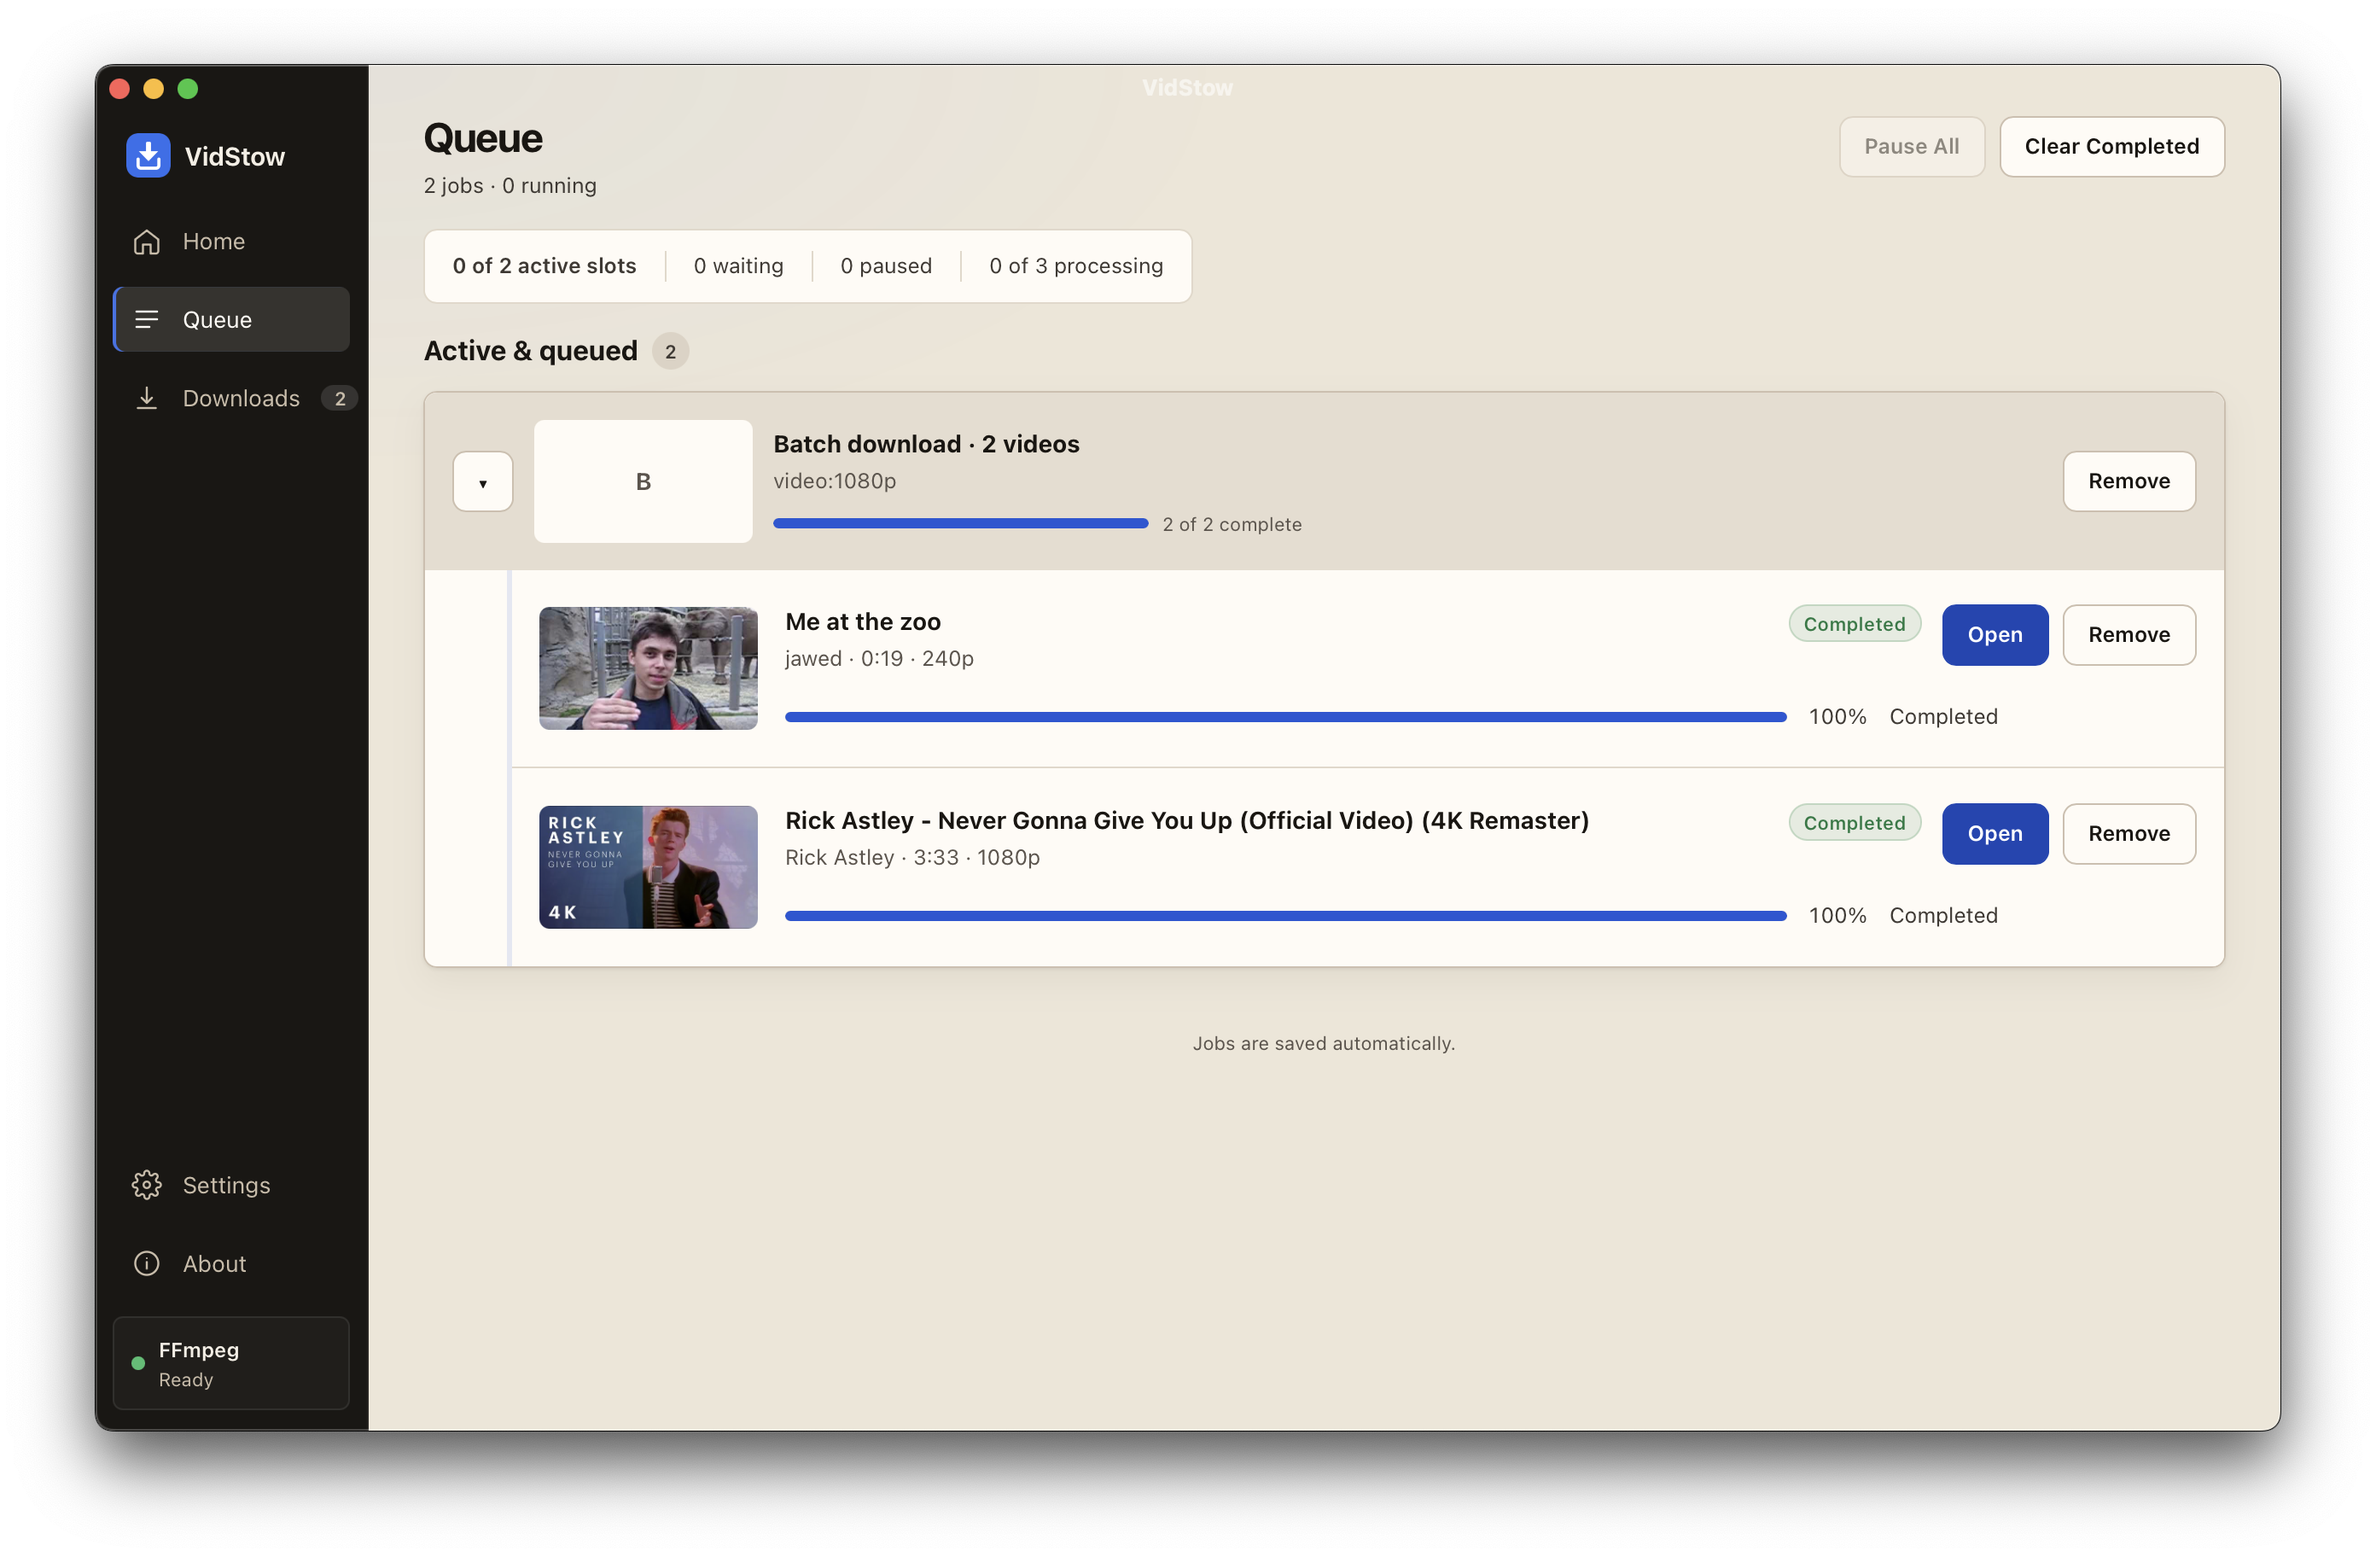
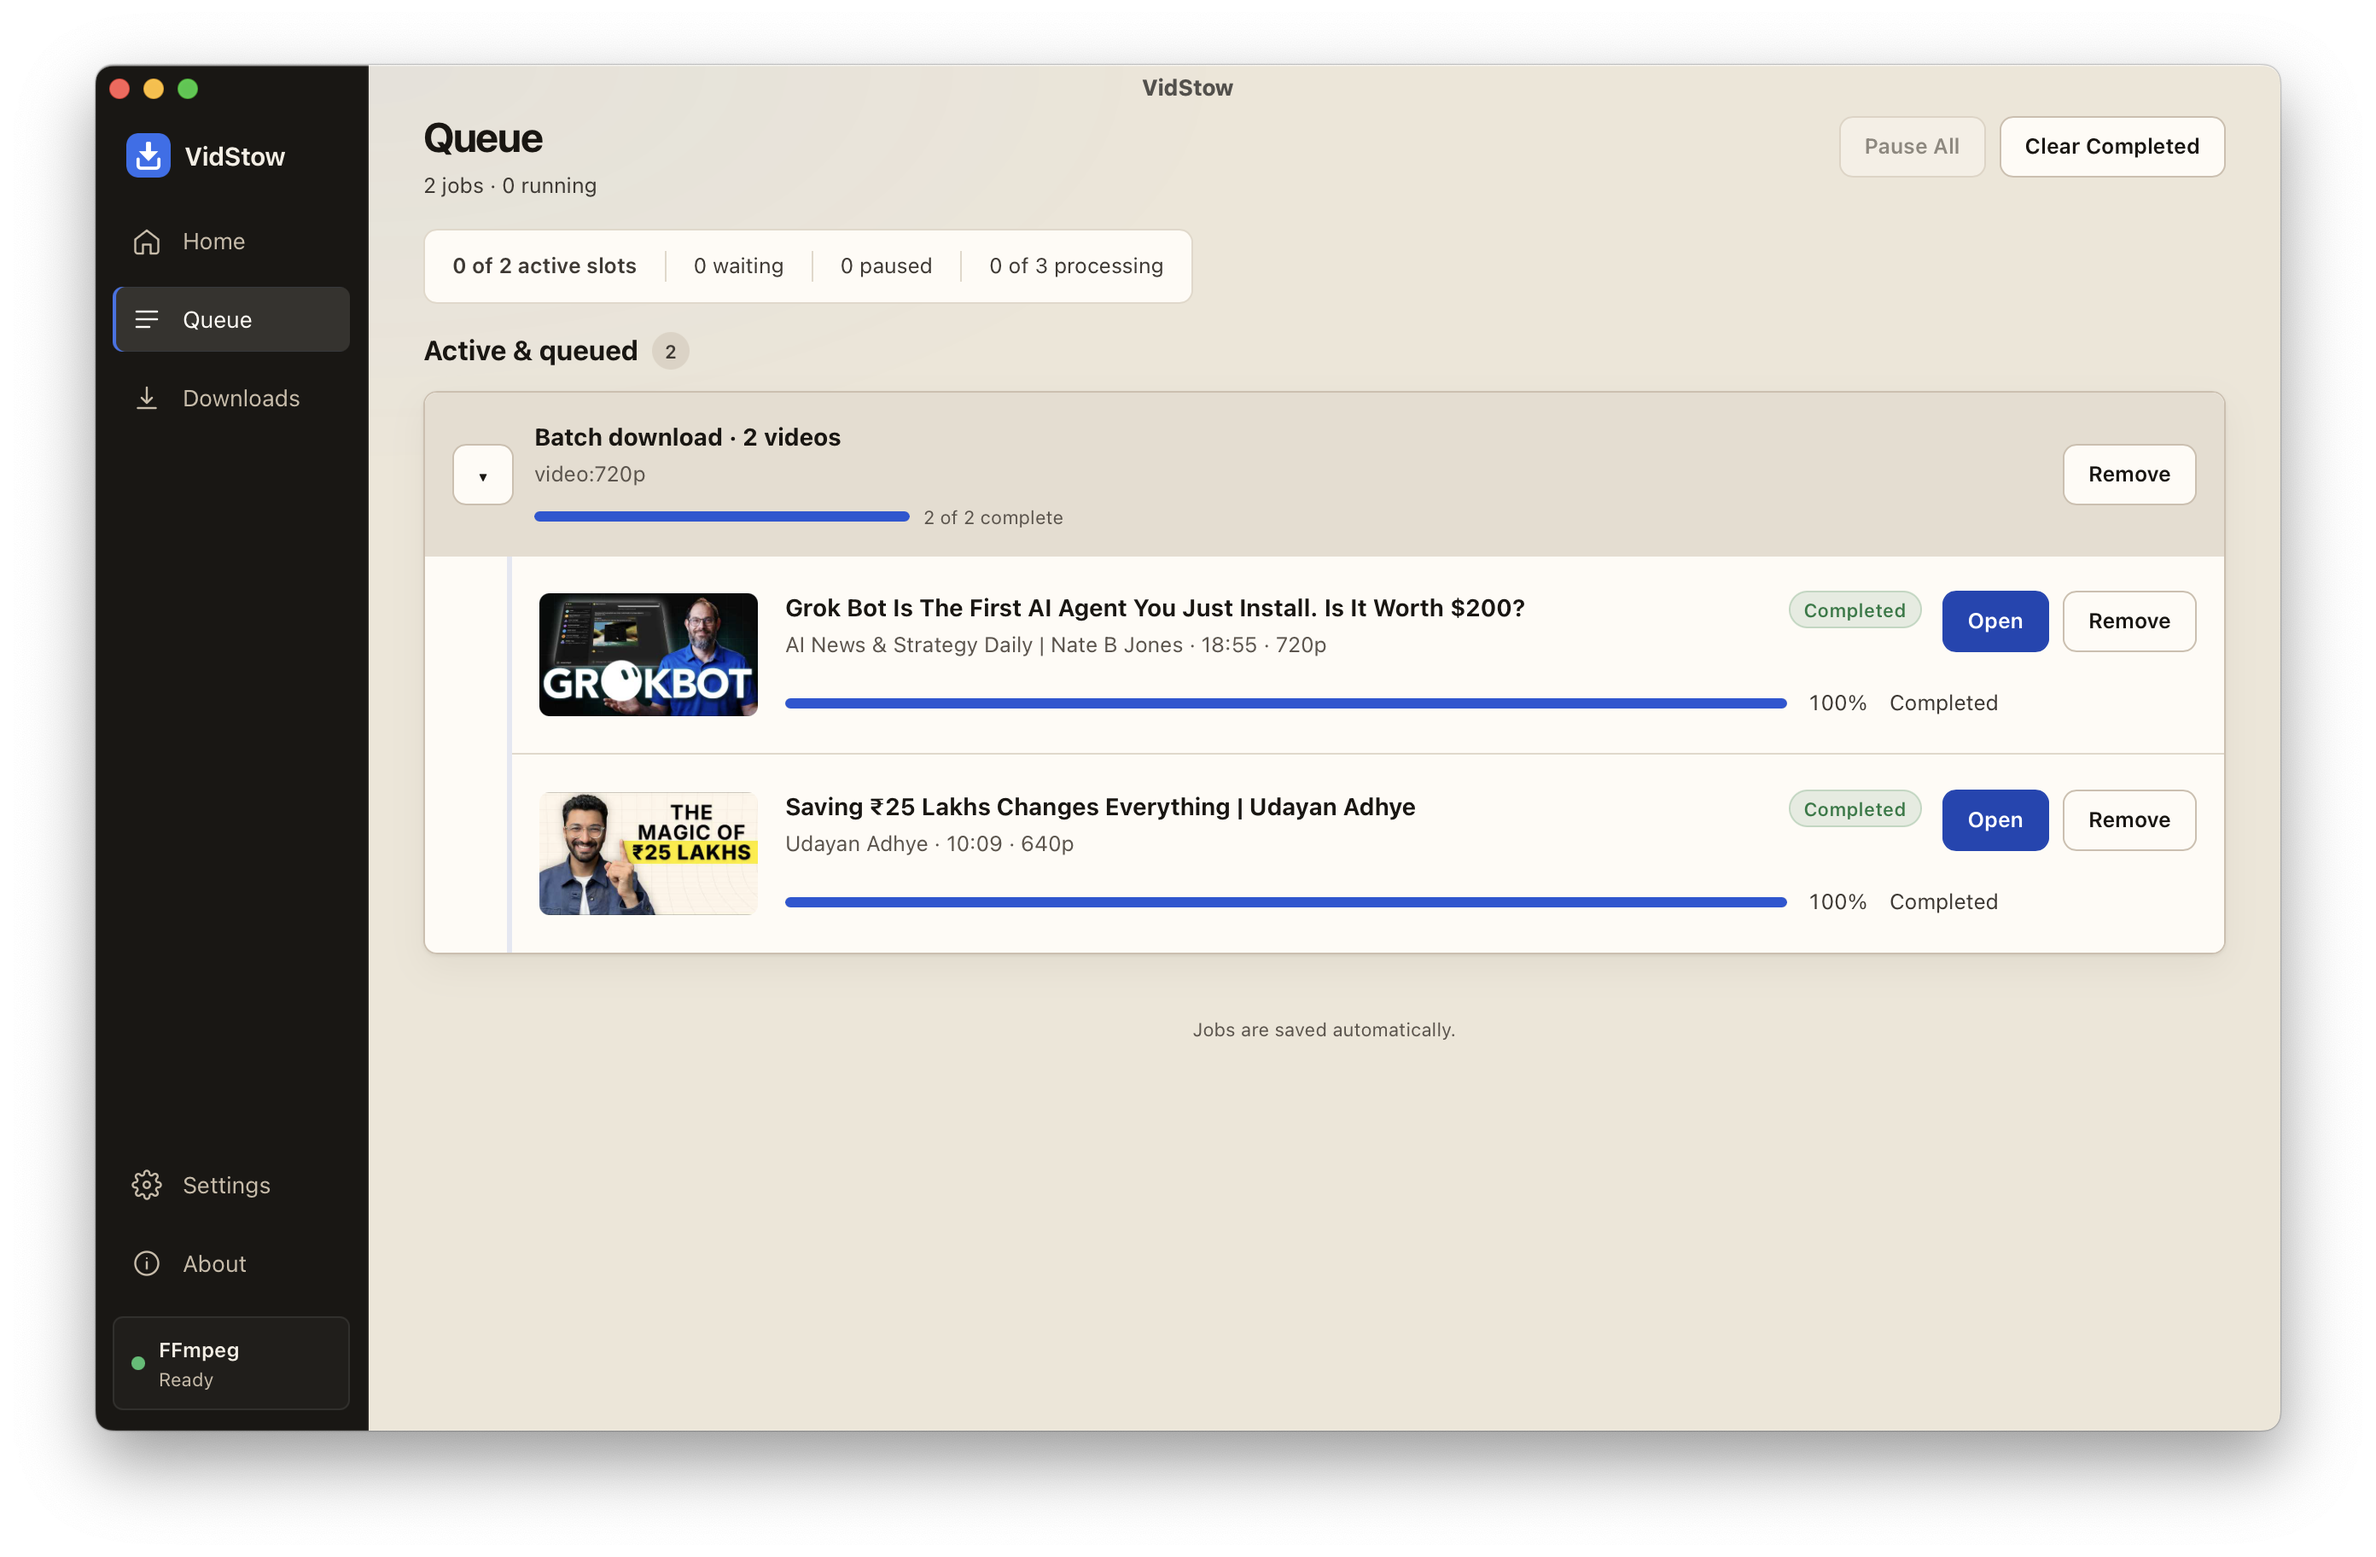
polish batch collection presentation

diff --git a/frontend/src/lib/lifecycle-ui/CollectionRow.svelte b/frontend/src/lib/lifecycle-ui/CollectionRow.svelte
@@ -32,7 +32,7 @@
 </script>
 
 <section class="collection" aria-labelledby={`${panelId}-title`}>
-  <div class="parent-row">
+  <div class="parent-row" class:without-thumbnail={collection.kind === 'batch'}>
     <button
       type="button"
       class="toggle"
@@ -44,10 +44,12 @@
       <span aria-hidden="true">{expanded ? '▾' : '▸'}</span>
     </button>
 
-    {#if collection.thumbnailUrl}
-      <img class="thumbnail" src={collection.thumbnailUrl} alt="" referrerpolicy="no-referrer" />
-    {:else}
-      <div class="thumbnail placeholder" aria-hidden="true">{collection.title.slice(0, 1).toUpperCase()}</div>
+    {#if collection.kind === 'playlist'}
+      {#if collection.thumbnailUrl}
+        <img class="thumbnail" src={collection.thumbnailUrl} alt="" referrerpolicy="no-referrer" />
+      {:else}
+        <div class="thumbnail placeholder" aria-hidden="true">{collection.title.slice(0, 1).toUpperCase()}</div>
+      {/if}
     {/if}
 
     <div class="identity">
@@ -100,6 +102,7 @@
   .collection { border-bottom: 1px solid var(--border-default); background: var(--surface-base); }
   .collection:last-child { border-bottom: 0; }
   .parent-row { display: grid; grid-template-columns: 36px 128px minmax(0, 1fr) auto; align-items: center; gap: var(--sp-3); padding: var(--sp-4); background: var(--surface-sunken); }
+  .parent-row.without-thumbnail { grid-template-columns: 36px minmax(0, 1fr) auto; }
   .toggle { display: grid; width: 36px; height: 36px; place-items: center; border: 1px solid var(--border-default); border-radius: var(--r-md); background: var(--surface-base); color: var(--text-primary); font-size: var(--fs-lg); }
   .toggle:hover { background: var(--surface-hover); }
   .thumbnail { width: 128px; aspect-ratio: 16 / 9; object-fit: cover; border-radius: var(--r-sm); background: var(--surface-base); }
@@ -117,6 +120,7 @@
 
   @media (max-width: 760px) {
     .parent-row { grid-template-columns: 36px 72px minmax(0, 1fr); }
+    .parent-row.without-thumbnail { grid-template-columns: 36px minmax(0, 1fr); }
     .thumbnail { width: 72px; height: 44px; }
     .actions { grid-column: 2 / -1; max-width: none; justify-content: flex-start; }
     .children { margin-left: 20px; }

diff --git a/frontend/tests/lifecycle-ui.dom.test.ts b/frontend/tests/lifecycle-ui.dom.test.ts
@@ -102,6 +102,26 @@ describe('backend-authored capabilities', () => {
     expect(screen.getByRole('button', { name: 'Expand Fixture playlist' })).toHaveAttribute('aria-expanded', 'false');
   });
 
+  test('batch collection parents omit synthetic thumbnails', () => {
+    const { container } = render(QueueOverview, {
+      props: {
+        model: queueModel({
+          jobs: [],
+          collections: [{
+            id: 'batch-1', kind: 'batch', title: 'Batch download · 2 videos', thumbnailUrl: 'https://example.invalid/batch.jpg',
+            policy: 'video:720p', childJobIds: [], total: 2, completed: 0, failed: 0, canceled: 0,
+            active: 2, pending: 0, paused: 0, progress: 0.5, progressLabel: '0 of 2 complete',
+            capabilities: {}, commandToken: 'batch-token',
+          }],
+        }),
+      },
+    });
+
+    expect(screen.getByText('Batch download · 2 videos')).toBeInTheDocument();
+    expect(screen.getByText('video:720p')).toBeInTheDocument();
+    expect(container.querySelector('.parent-row > .thumbnail')).not.toBeInTheDocument();
+  });
+
   test('playlist collection actions fail closed without a valid token', async () => {
     const onCollectionAction = vi.fn();
     const user = userEvent.setup();

diff --git a/frontend/src/pages/Home.svelte b/frontend/src/pages/Home.svelte
@@ -133,7 +133,7 @@
     }
   }
 
-  function editBatchLines() {
+  function editBatchURLs() {
     batchGeneration += 1;
     batchBusy = false;
     batchReview = null;
@@ -416,7 +416,7 @@
             <p aria-live="polite">{batchReviewSummary(batchReview)}</p>
             {#if !batchTokenValid}<p class="batch-expired" role="alert">This review expired. Edit the lines and review them again.</p>{/if}
           </div>
-          <button type="button" class="app-btn" on:click={editBatchLines} disabled={batchBusy}>Edit lines</button>
+          <button type="button" class="app-btn" on:click={editBatchURLs} disabled={batchBusy}>Edit URLs</button>
         </header>
 
         <div class="batch-lines" role="list" aria-label="Reviewed batch URLs">

diff --git a/frontend/tests/home.dom.test.ts b/frontend/tests/home.dom.test.ts
@@ -222,7 +222,7 @@ describe('Home analysis authority', () => {
     await user.click(screen.getByRole('button', { name: 'Review URLs' }));
     expect(await screen.findByRole('button', { name: 'Start 2 downloads' })).toBeEnabled();
     expect(screen.getByText('2 videos ready to download')).toBeInTheDocument();
-    await user.click(screen.getByRole('button', { name: 'Edit lines' }));
+    await user.click(screen.getByRole('button', { name: 'Edit URLs' }));
     expect(screen.queryByRole('button', { name: 'Start 2 downloads' })).not.toBeInTheDocument();
     expect(screen.getByLabelText('YouTube video or Short URLs')).toHaveValue('one\ntwo');
   });

diff --git a/main.go b/main.go
@@ -40,7 +40,7 @@ func main() {
 				UseToolbar:                 false,
 				HideToolbarSeparator:       true,
 			},
-			Appearance:           mac.NSAppearanceNameDarkAqua,
+			Appearance:           mac.NSAppearanceNameAqua,
 			WebviewIsTransparent: false,
 			WindowIsTranslucent:  false,
 			About: &mac.AboutInfo{

diff --git a/docs/RELIABLE_BATCH_DOWNLOADS_IMPLEMENTATION_PLAN.md b/docs/RELIABLE_BATCH_DOWNLOADS_IMPLEMENTATION_PLAN.md
@@ -35,7 +35,7 @@ This is the living implementation plan for reliable batch downloads. Keep the st
 10. The structured failure taxonomy applies to all jobs, not only batch children.
 11. Product measurements are local-only, privacy-safe aggregate counters. Stable message keys are introduced now; English remains the only copy in this release.
 12. Development occurs on a new branch from the latest `origin/main`.
-13. Pre-admission batch input and review remain on Home. Queue is shown only after successful admission; validation counts and **Edit lines / Start downloads** controls never appear on Queue.
+13. Pre-admission batch input and review remain on Home. Queue is shown only after successful admission; validation summary and **Edit URLs / Start downloads** controls never appear on Queue.
 14. The approved UI structure is the line-level Home review and expandable Queue parent documented in Section 5. The current polished application shell is authoritative for window dimensions and responsive behavior rather than the older 1280×800 feature frame.
 
 ## 3. Goals
@@ -81,7 +81,7 @@ The Batch URLs mode has four UI states:
    - Show every original non-empty line in input order with a status and safe explanation.
    - Show a 16:9 thumbnail for every successfully analyzed video, with a deterministic YouTube thumbnail fallback and a neutral placeholder when an image is unavailable. Keep non-ready rows aligned using the same placeholder slot.
    - For a duplicate, identify the first matching line, for example `Duplicate of line 1`.
-   - Provide **Edit lines** to return to input and invalidate the current review/token.
+   - Provide **Edit URLs** to return to input and invalidate the current review/token.
    - Show one format selector and the current default output folder with **Change…**.
    - Label the primary action with its concrete ready count, for example **Start 3 downloads**.
    - Enable the primary action only when at least two items are ready and the analysis token remains valid.
@@ -105,7 +105,7 @@ Review URLs
 Format       [Video | Audio]
 Save to      /Users/...                 [Change…]
 
-[Edit lines]                         [Start 3 downloads]
+[Edit URLs]                          [Start 3 downloads]
 ```
 
 The displayed URL must be a safe, visually truncated representation of the original line. It must not become telemetry or diagnostic data.
@@ -131,6 +131,7 @@ Batch download · 3 videos
 ```
 
 - Render a durable expandable parent titled from backend-authored collection data, with a fallback such as `Batch download · 3 videos`.
+- Do not show a synthetic thumbnail or letter placeholder on a pasted-batch parent. The compact parent begins with its disclosure control, title, policy, progress, and actions; individual child rows retain their video thumbnails. Playlist parents may continue using playlist artwork.
 - Derive the parent total, completion text, and progress bar from the same durable ordered child set. Never display contradictory totals.
 - Summarize child state accurately: queued, active, completed, action required, and failed.
 - Display every batch child in stable input order and make collection membership visually unambiguous.
@@ -393,7 +394,7 @@ If the aggregate store threatens the core feature schedule, keep instrumentation
 - Input, analyzing, review, stale response, expiry, and started states.
 - Mixed result counts and line statuses.
 - Start disabled with fewer than two ready items.
-- Edit lines invalidates the old review state.
+- Edit URLs invalidates the old review state.
 - One policy selector affects all ready items.
 - Validation review remains on Home and is absent from Queue after admission.
 - Every input line remains visible in review; duplicates identify the first matching line.
@@ -459,6 +460,7 @@ Keep this section current throughout implementation.
 - 2026-08-22: Manually tested a mixed five-line batch in the production macOS app: two ready videos, one canonical duplicate, one invalid host, and one safe analysis failure. Started both ready downloads, verified the expanded durable parent and stable child order, completed both files, restarted the app, and verified the restored `2 of 2 complete` collection.
 - 2026-08-22: Manual review exposed stale speed/ETA text on a completed child. Updated the backend queue projection to clear live transfer telemetry for completed rows and added a regression test.
 - 2026-08-22: Product review identified redundant review counts and missing analyzed-video artwork. Removed the duplicate count strip, made the remaining summary conditional and outcome-focused, added aligned 16:9 thumbnails/placeholders, and added a backend YouTube-thumbnail fallback plus regression coverage.
+- 2026-08-22: Follow-up product review removed the synthetic pasted-batch parent thumbnail while retaining child and playlist artwork, renamed **Edit lines** to the clearer **Edit URLs**, and switched the native macOS window appearance to Aqua so the centered title remains legible over the light title bar.
 
 ### Plan changes
 
